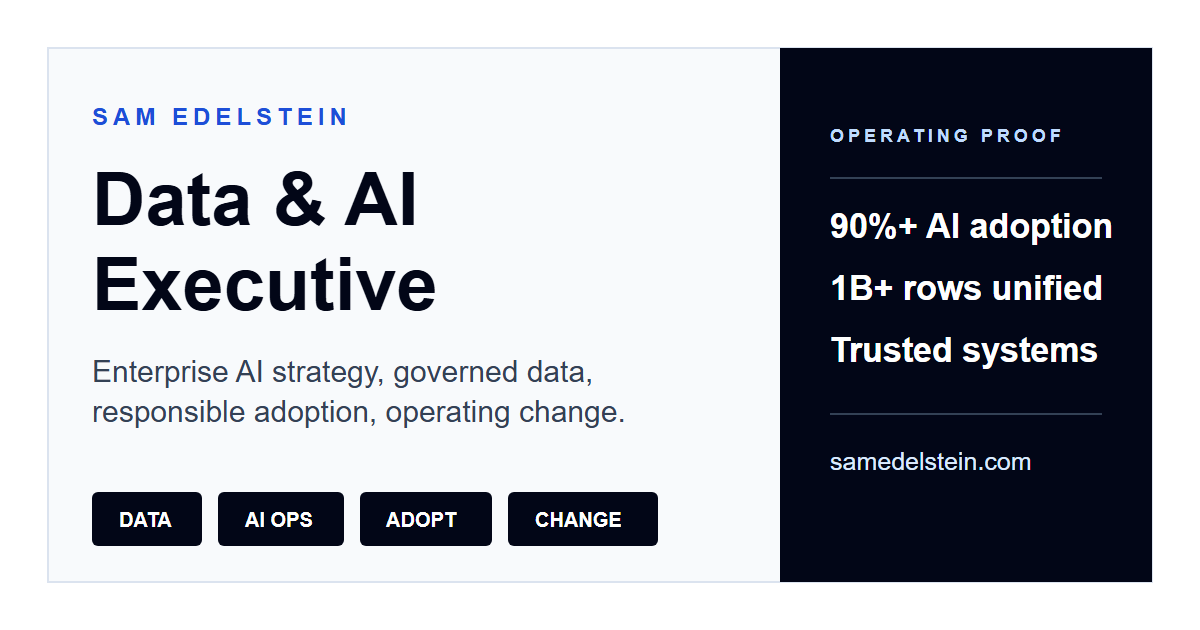
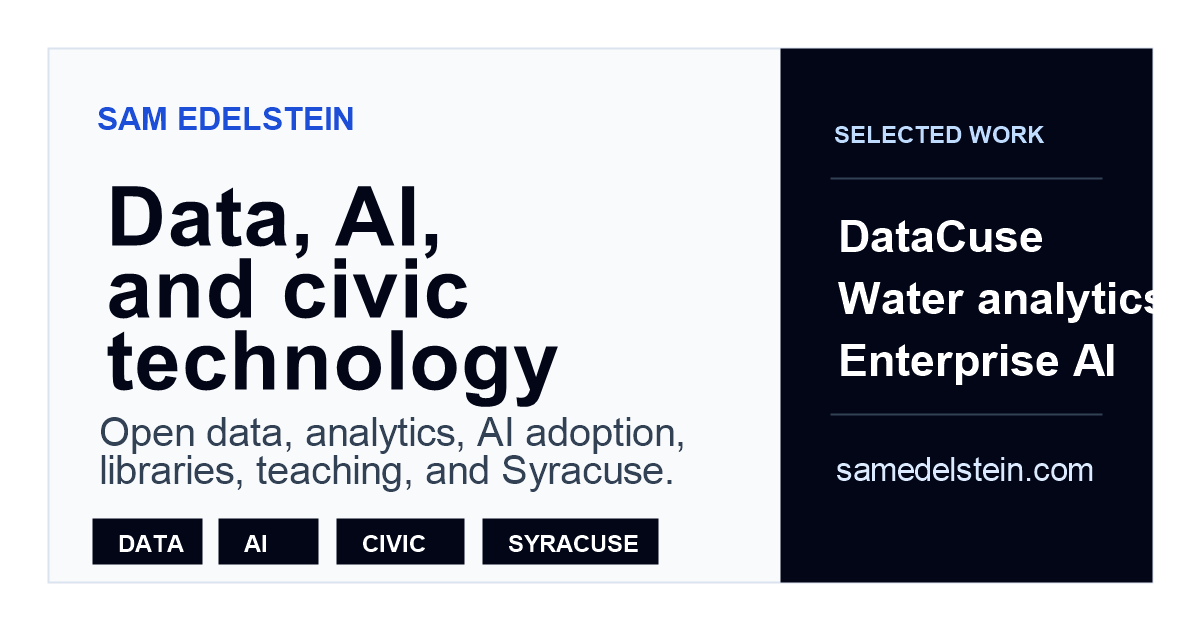
Soften metadata and social preview voice

diff --git a/site/index.html b/site/index.html
@@ -7,16 +7,16 @@
     <meta name="theme-color" content="#020617" />
     <meta
       name="description"
-      content="Sam Edelstein is a Data & AI executive focused on enterprise AI strategy, governed data foundations, AI enablement, and operating model design. Enterprise AI strategy, governance, adoption, and modern data foundations."
+      content="Sam Edelstein works on data, AI, civic technology, open data, analytics, and public-service-minded technology from Syracuse, New York."
     />
     <meta
       name="keywords"
-      content="Sam Edelstein, Data AI executive, enterprise AI strategy, governed data foundations, responsible AI adoption, operating model design, data platform modernization, AI governance, data governance"
+      content="Sam Edelstein, data and AI, civic technology, open data, DataCuse, Syracuse, analytics, water main analytics, data governance, AI adoption"
     />
     <meta name="author" content="Sam Edelstein" />
     <meta name="referrer" content="strict-origin-when-cross-origin" />
     <link rel="canonical" href="https://samedelstein.com/" />
-    <link rel="alternate" type="text/html" title="Sam Edelstein executive brief" href="https://samedelstein.com/executive-brief/" />
+    <link rel="alternate" type="text/html" title="Sam Edelstein brief" href="https://samedelstein.com/executive-brief/" />
     <link rel="alternate" type="text/html" title="Sam Edelstein executive work themes" href="https://samedelstein.com/roles/" />
     <link rel="alternate" type="text/html" title="Sam Edelstein trusted data foundations" href="https://samedelstein.com/roles/chief-data-officer/" />
     <link rel="alternate" type="text/html" title="Sam Edelstein applied AI operating models" href="https://samedelstein.com/roles/vp-data-ai/" />
@@ -24,23 +24,23 @@
     <link rel="alternate" type="text/html" title="Sam Edelstein modern delivery platforms" href="https://samedelstein.com/roles/data-platform-strategy/" />
     <link rel="alternate" type="text/html" title="Sam Edelstein measurable operating change" href="https://samedelstein.com/roles/executive-ai-transformation/" />
     <link rel="alternate" type="text/html" title="Sam Edelstein data and AI skills" href="https://samedelstein.com/skills/" />
-    <link rel="alternate" type="text/html" title="Sam Edelstein proof records" href="https://samedelstein.com/proof/" />
+    <link rel="alternate" type="text/html" title="Sam Edelstein selected work" href="https://samedelstein.com/proof/" />
     <link rel="alternate" type="text/html" title="Sam Edelstein press and speaking" href="https://samedelstein.com/press/" />
     <link rel="alternate" type="text/html" title="Contact Sam Edelstein" href="https://samedelstein.com/contact/" />
     <link rel="author" href="https://www.linkedin.com/in/samedelstein" />
-    <link rel="alternate" type="text/plain" title="Sam Edelstein executive brief" href="https://samedelstein.com/executive-brief.txt" />
+    <link rel="alternate" type="text/plain" title="Sam Edelstein brief" href="https://samedelstein.com/executive-brief.txt" />
     <link rel="alternate" type="text/plain" title="Sam Edelstein Plain text resume" href="https://samedelstein.com/sam-edelstein-resume.txt" />
     <link rel="alternate" type="application/pdf" title="Sam Edelstein resume PDF alias" href="https://samedelstein.com/resume.pdf" />
     <link rel="alternate" type="text/plain" title="Sam Edelstein resume text alias" href="https://samedelstein.com/resume.txt" />
-    <link rel="alternate" type="application/json" title="Sam Edelstein structured executive brief" href="https://samedelstein.com/profile.json" />
+    <link rel="alternate" type="application/json" title="Sam Edelstein structured profile" href="https://samedelstein.com/profile.json" />
     <link rel="alternate" type="application/json" title="Sam Edelstein structured resume JSON" href="https://samedelstein.com/resume.json" />
     <link rel="alternate" type="text/vcard" title="Sam Edelstein vCard" href="https://samedelstein.com/sam-edelstein.vcf" />
     <link rel="alternate" type="text/plain" title="Sam Edelstein AI-readable profile" href="https://samedelstein.com/llms.txt" />
     <meta property="og:site_name" content="Sam Edelstein" />
-    <meta property="og:title" content="Sam Edelstein | Data & AI Executive" />
+    <meta property="og:title" content="Sam Edelstein | Data, AI, and Civic Technology" />
     <meta
       property="og:description"
-      content="Executive Data & AI leader for enterprise AI strategy, governed data foundations, scaled adoption, and operating model design."
+      content="Data, AI, open data, analytics, and public-service-minded technology from Syracuse, New York."
     />
     <meta property="og:type" content="website" />
     <meta property="og:url" content="https://samedelstein.com/" />
@@ -49,10 +49,10 @@
     <meta property="og:image:width" content="1200" />
     <meta property="og:image:height" content="630" />
     <meta name="twitter:card" content="summary_large_image" />
-    <meta name="twitter:title" content="Sam Edelstein | Data & AI Executive" />
+    <meta name="twitter:title" content="Sam Edelstein | Data, AI, and Civic Technology" />
     <meta
       name="twitter:description"
-      content="Data & AI executive focused on enterprise AI strategy, governed data foundations, responsible adoption, and operating model design."
+      content="Data, AI, open data, analytics, and public-service-minded technology from Syracuse, New York."
     />
     <meta name="twitter:image" content="https://samedelstein.com/social-card.png" />
     <script type="application/ld+json">
@@ -60,8 +60,8 @@
         "@context": "https://schema.org",
         "@type": "ProfilePage",
         "url": "https://samedelstein.com/",
-        "name": "Sam Edelstein | Data & AI Executive",
-        "description": "Executive profile for Sam Edelstein, a Data & AI leader focused on enterprise AI strategy, governance, adoption, and data platform modernization.",
+        "name": "Sam Edelstein | Data, AI, and Civic Technology",
+        "description": "Sam Edelstein works on data, AI, civic technology, open data, analytics, and public-service-minded technology from Syracuse, New York.",
         "mainEntity": {
           "@type": "Person",
           "name": "Sam Edelstein",
@@ -103,7 +103,7 @@
           ],
           "hasOccupation": {
             "@type": "Occupation",
-            "name": "Data and AI Executive",
+            "name": "Data and AI Leader",
             "occupationLocation": {
               "@type": "Place",
               "name": "United States"
@@ -120,12 +120,12 @@
           "subjectOf": [
             {
               "@type": "WebPage",
-              "name": "Sam Edelstein Executive Brief",
+              "name": "Sam Edelstein Brief",
               "url": "https://samedelstein.com/executive-brief/"
             },
             {
               "@type": "DigitalDocument",
-              "name": "Sam Edelstein Structured Executive Brief",
+              "name": "Sam Edelstein Structured Profile",
               "url": "https://samedelstein.com/profile.json",
               "encodingFormat": "application/json"
             },
@@ -166,7 +166,7 @@
             },
             {
               "@type": "WebPage",
-              "name": "Sam Edelstein Proof Records",
+              "name": "Sam Edelstein Selected Work",
               "url": "https://samedelstein.com/proof/"
             },
             {
@@ -207,23 +207,23 @@
         }
       }
     </script>
-    <title>Sam Edelstein | Data & AI Executive</title>
+    <title>Sam Edelstein | Data, AI, and Civic Technology</title>
   </head>
   <body>
     <div id="root"></div>
     <noscript>
       <main style="max-width: 860px; margin: 0 auto; padding: 64px 24px; font-family: Arial, Helvetica, sans-serif; color: #020617; line-height: 1.55;">
-        <p style="margin: 0 0 18px; color: #1d4ed8; font-size: 11px; font-weight: 800; letter-spacing: 0.24em; text-transform: uppercase;">Current Profile</p>
-        <h1 style="max-width: 760px; margin: 0; font-size: 48px; line-height: 1.04; letter-spacing: 0;">Sam Edelstein is a Data &amp; AI executive for teams turning AI ambition into operating capability.</h1>
+        <p style="margin: 0 0 18px; color: #1d4ed8; font-size: 11px; font-weight: 800; letter-spacing: 0.24em; text-transform: uppercase;">Hi, I'm Sam.</p>
+        <h1 style="max-width: 760px; margin: 0; font-size: 48px; line-height: 1.04; letter-spacing: 0;">I work on data, AI, and public-service-minded technology.</h1>
         <p style="max-width: 720px; margin: 22px 0 0; color: #475569; font-size: 19px;">
-          Senior Vice President, Data &amp; AI at Insight Partners. Current work spans trusted data foundations,
-          applied AI operating models, responsible adoption, modern delivery platforms, and measurable operating change.
+          Senior Vice President, Data &amp; AI at Insight Partners. Former Chief Data Officer for the City of Syracuse.
+          My work has included DataCuse, open data, water main analytics, enterprise data, AI adoption, teaching, and civic boards.
         </p>
         <div style="display: flex; flex-wrap: wrap; gap: 12px; margin-top: 30px;">
-          <a href="/executive-brief/" style="display: inline-flex; min-height: 44px; align-items: center; justify-content: center; border: 1px solid #020617; border-radius: 6px; background: #020617; color: #ffffff; padding: 10px 16px; font-size: 12px; font-weight: 800; letter-spacing: 0.08em; text-transform: uppercase; text-decoration: none;">Executive Brief</a>
-          <a href="/roles/" style="display: inline-flex; min-height: 44px; align-items: center; justify-content: center; border: 1px solid #dbe3ef; border-radius: 6px; color: #020617; padding: 10px 16px; font-size: 12px; font-weight: 800; letter-spacing: 0.08em; text-transform: uppercase; text-decoration: none;">Work Themes</a>
+          <a href="/proof/" style="display: inline-flex; min-height: 44px; align-items: center; justify-content: center; border: 1px solid #020617; border-radius: 6px; background: #020617; color: #ffffff; padding: 10px 16px; font-size: 12px; font-weight: 800; letter-spacing: 0.08em; text-transform: uppercase; text-decoration: none;">Selected Work</a>
+          <a href="/roles/" style="display: inline-flex; min-height: 44px; align-items: center; justify-content: center; border: 1px solid #dbe3ef; border-radius: 6px; color: #020617; padding: 10px 16px; font-size: 12px; font-weight: 800; letter-spacing: 0.08em; text-transform: uppercase; text-decoration: none;">Work</a>
           <a href="/skills/" style="display: inline-flex; min-height: 44px; align-items: center; justify-content: center; border: 1px solid #dbe3ef; border-radius: 6px; color: #020617; padding: 10px 16px; font-size: 12px; font-weight: 800; letter-spacing: 0.08em; text-transform: uppercase; text-decoration: none;">Skills</a>
-          <a href="/proof/" style="display: inline-flex; min-height: 44px; align-items: center; justify-content: center; border: 1px solid #dbe3ef; border-radius: 6px; color: #020617; padding: 10px 16px; font-size: 12px; font-weight: 800; letter-spacing: 0.08em; text-transform: uppercase; text-decoration: none;">Proof Records</a>
+          <a href="/executive-brief/" style="display: inline-flex; min-height: 44px; align-items: center; justify-content: center; border: 1px solid #dbe3ef; border-radius: 6px; color: #020617; padding: 10px 16px; font-size: 12px; font-weight: 800; letter-spacing: 0.08em; text-transform: uppercase; text-decoration: none;">Brief</a>
           <a href="/press/" style="display: inline-flex; min-height: 44px; align-items: center; justify-content: center; border: 1px solid #dbe3ef; border-radius: 6px; color: #020617; padding: 10px 16px; font-size: 12px; font-weight: 800; letter-spacing: 0.08em; text-transform: uppercase; text-decoration: none;">Press &amp; Speaking</a>
           <a href="/contact/" style="display: inline-flex; min-height: 44px; align-items: center; justify-content: center; border: 1px solid #dbe3ef; border-radius: 6px; color: #020617; padding: 10px 16px; font-size: 12px; font-weight: 800; letter-spacing: 0.08em; text-transform: uppercase; text-decoration: none;">Contact Page</a>
           <a href="/sam-edelstein-resume.pdf" style="display: inline-flex; min-height: 44px; align-items: center; justify-content: center; border: 1px solid #dbe3ef; border-radius: 6px; color: #020617; padding: 10px 16px; font-size: 12px; font-weight: 800; letter-spacing: 0.08em; text-transform: uppercase; text-decoration: none;">Resume PDF</a>
